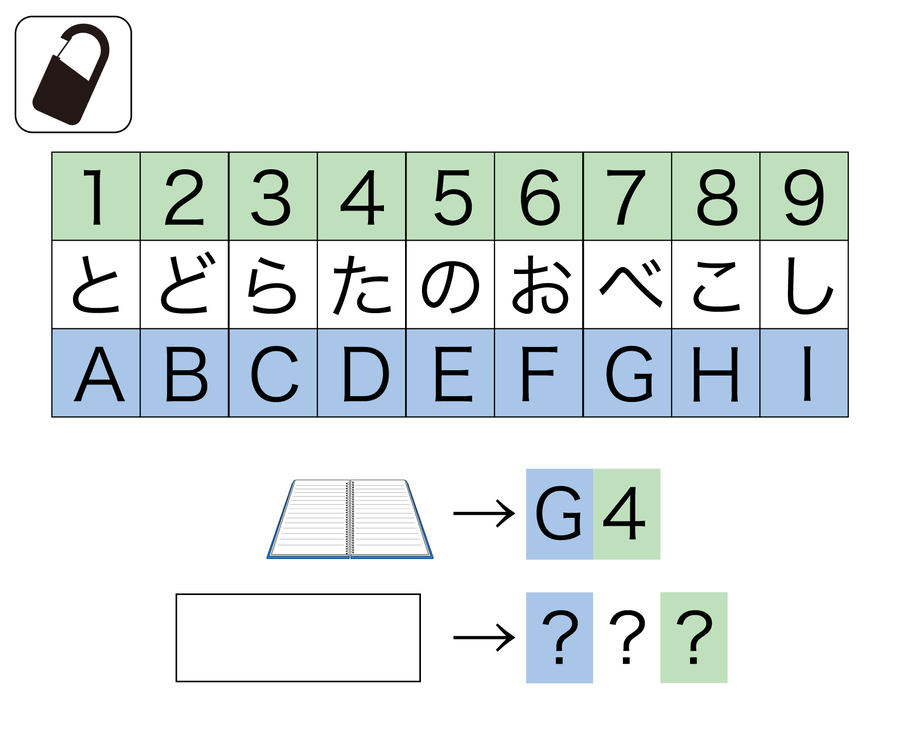
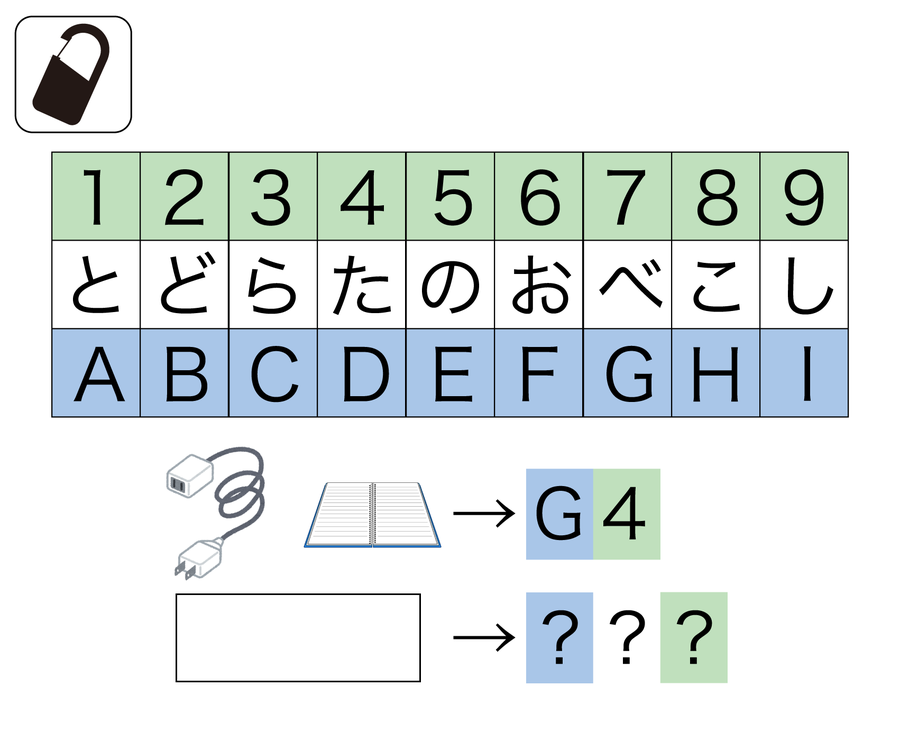
Update carabiner image

Changed region(s): [[0.1867, 0.5827, 0.4978, 0.7667]]

diff --git a/sw.js b/sw.js
@@ -1,4 +1,4 @@
-var CACHE = 'thejail-prison-v46';
+var CACHE = 'thejail-prison-v47';
 var ASSETS = ['./', './index.html', './style.css', './app.js', './manifest.json', './fonts/play.css', './fonts/murecho.css', './fonts/murecho-100.woff2', './fonts/murecho-101.woff2', './fonts/murecho-102.woff2', './fonts/murecho-103.woff2', './fonts/murecho-104.woff2', './fonts/murecho-105.woff2', './fonts/murecho-106.woff2', './fonts/murecho-107.woff2', './fonts/murecho-108.woff2', './fonts/murecho-109.woff2', './fonts/murecho-110.woff2', './fonts/murecho-111.woff2', './fonts/murecho-112.woff2', './fonts/murecho-113.woff2', './fonts/murecho-114.woff2', './fonts/murecho-117.woff2', './fonts/murecho-119.woff2', './fonts/murecho-55.woff2', './fonts/murecho-71.woff2', './fonts/murecho-72.woff2', './fonts/murecho-77.woff2', './fonts/murecho-78.woff2', './fonts/murecho-80.woff2', './fonts/murecho-81.woff2', './fonts/murecho-82.woff2', './fonts/murecho-84.woff2', './fonts/murecho-86.woff2', './fonts/murecho-87.woff2', './fonts/murecho-89.woff2', './fonts/murecho-90.woff2', './fonts/murecho-91.woff2', './fonts/murecho-92.woff2', './fonts/murecho-93.woff2', './fonts/murecho-94.woff2', './fonts/murecho-95.woff2', './fonts/murecho-96.woff2', './fonts/murecho-97.woff2', './fonts/murecho-98.woff2', './fonts/murecho-99.woff2', './fonts/Play-Bold-latin.woff2', './fonts/Play-Bold-greek.woff2', './images/window.png', './images/choice-head.png', './images/sym-yes.png', './images/sym-no.png', './images/banner-senryu.png', './images/banner-ai.png', './images/caution.png', './images/btn-code.png', './images/btn-record.png', './images/icon-cab.png', './images/logo-thejail.png', './images/icon-192.png', './images/icon-512.png', './images/apple-touch-icon.png', './images/item-mask.png', './images/icon-mask.png', './images/item-pencil.png', './images/icon-pencil.png', './images/item-tissue.png', './images/icon-tissue.png', './images/item-chain.png', './images/icon-chain.png', './images/item-ballpoint.png', './images/icon-ballpoint.png', './images/item-battery.png', './images/icon-battery.png', './images/item-eraser.png', './images/icon-eraser.png', './images/item-diamond.png', './images/icon-diamond.png', './images/item-heart.png', './images/icon-heart.png', './images/item-club.png', './images/icon-club.png', './images/item-spade.png', './images/icon-spade.png', './images/item-carabiner.png', './images/icon-carabiner.png', './images/item-clip.png', './images/icon-clip.png', './images/item-shook.png', './images/icon-shook.png'];
 
 self.addEventListener('install', function (e) {
